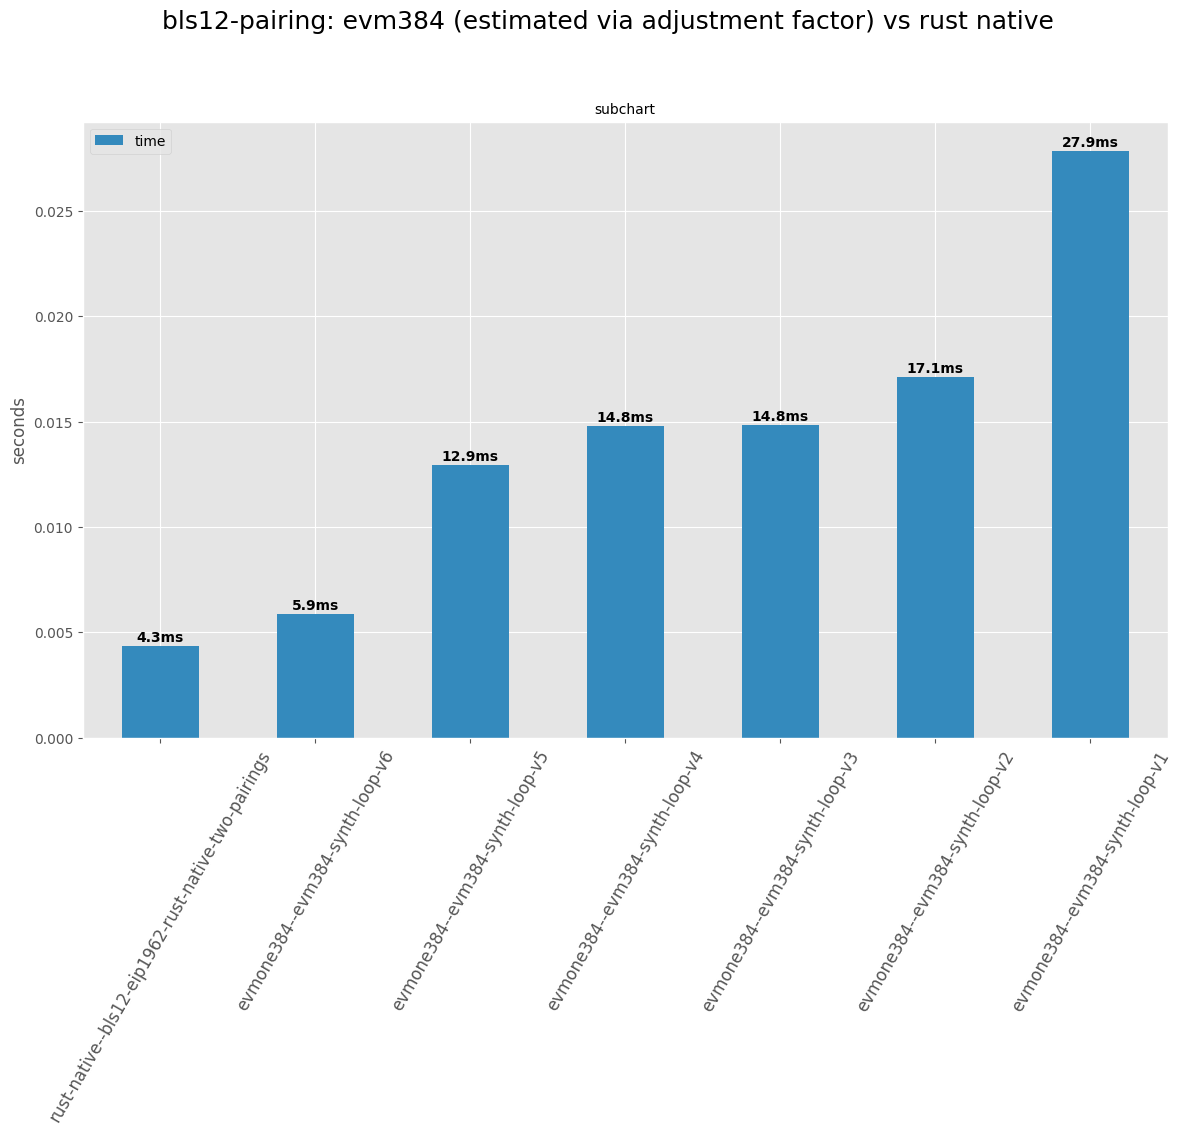
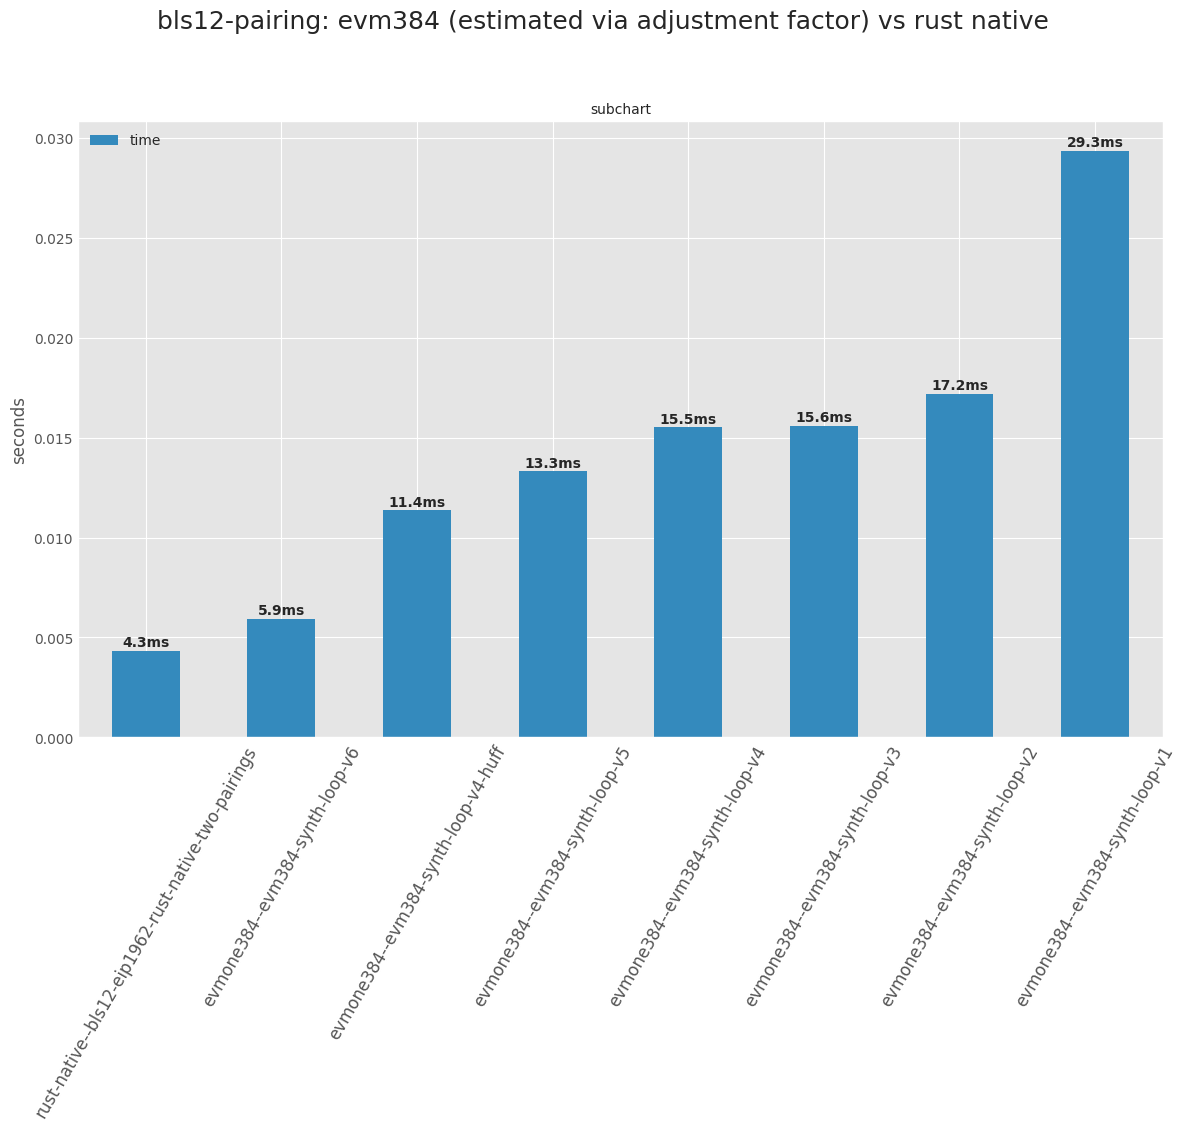
update benchmarks

diff --git a/evm/scripts/bench_evm384.py b/evm/scripts/bench_evm384.py
@@ -40,6 +40,10 @@ EVMONE_BENCH_INFOS = [
   {
     "command": "/root/evmone-evm384-v6/build/bin/evmone-bench --benchmark_format=json --benchmark_color=false --benchmark_min_time=5 /root/evm384_f6m_mul/build/v6-f6m_mul_bench.hex 00 ff",
     "bench_name": "evm384-synth-loop-v6"
+  },
+  {
+    "command": "/root/evmone-evm384-v4/build/bin/evmone-bench --benchmark_format=json --benchmark_color=false --benchmark_min_time=5 /root/evm384_f6m_mul/build/v4-huff-f6m_mul_bench.hex 00 ff",
+    "bench_name": "evm384-synth-loop-v4-huff"
   }
 ]
 
